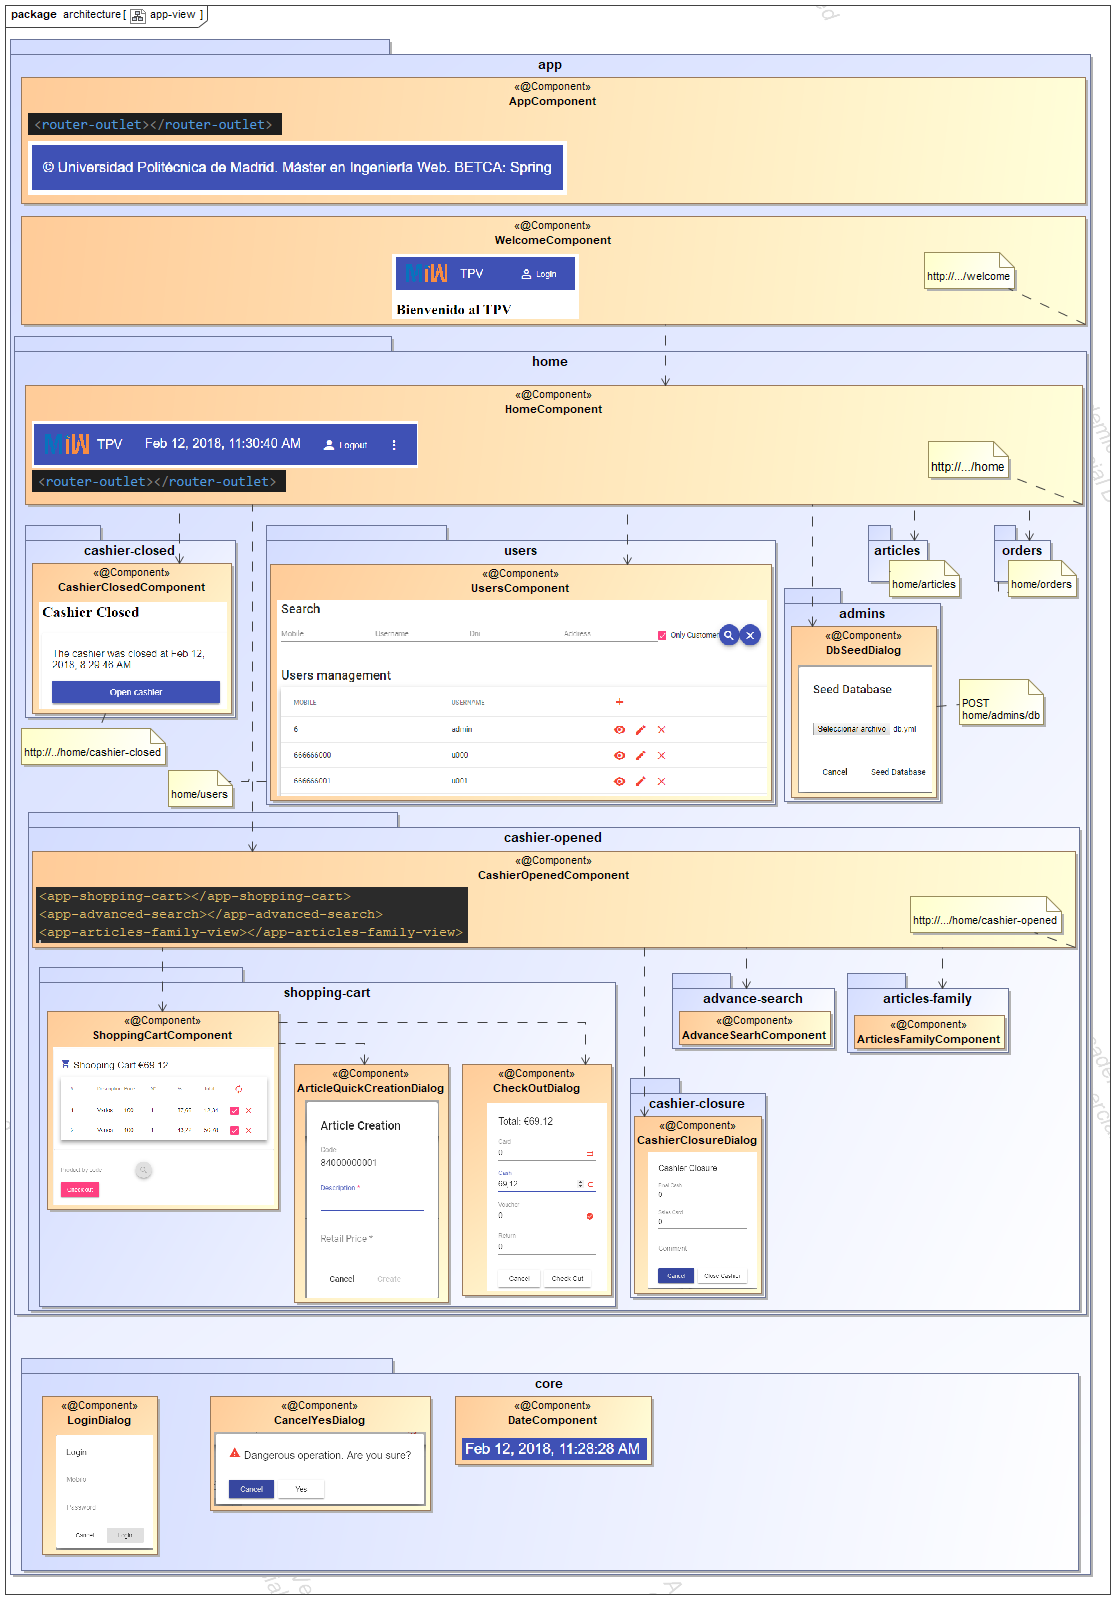
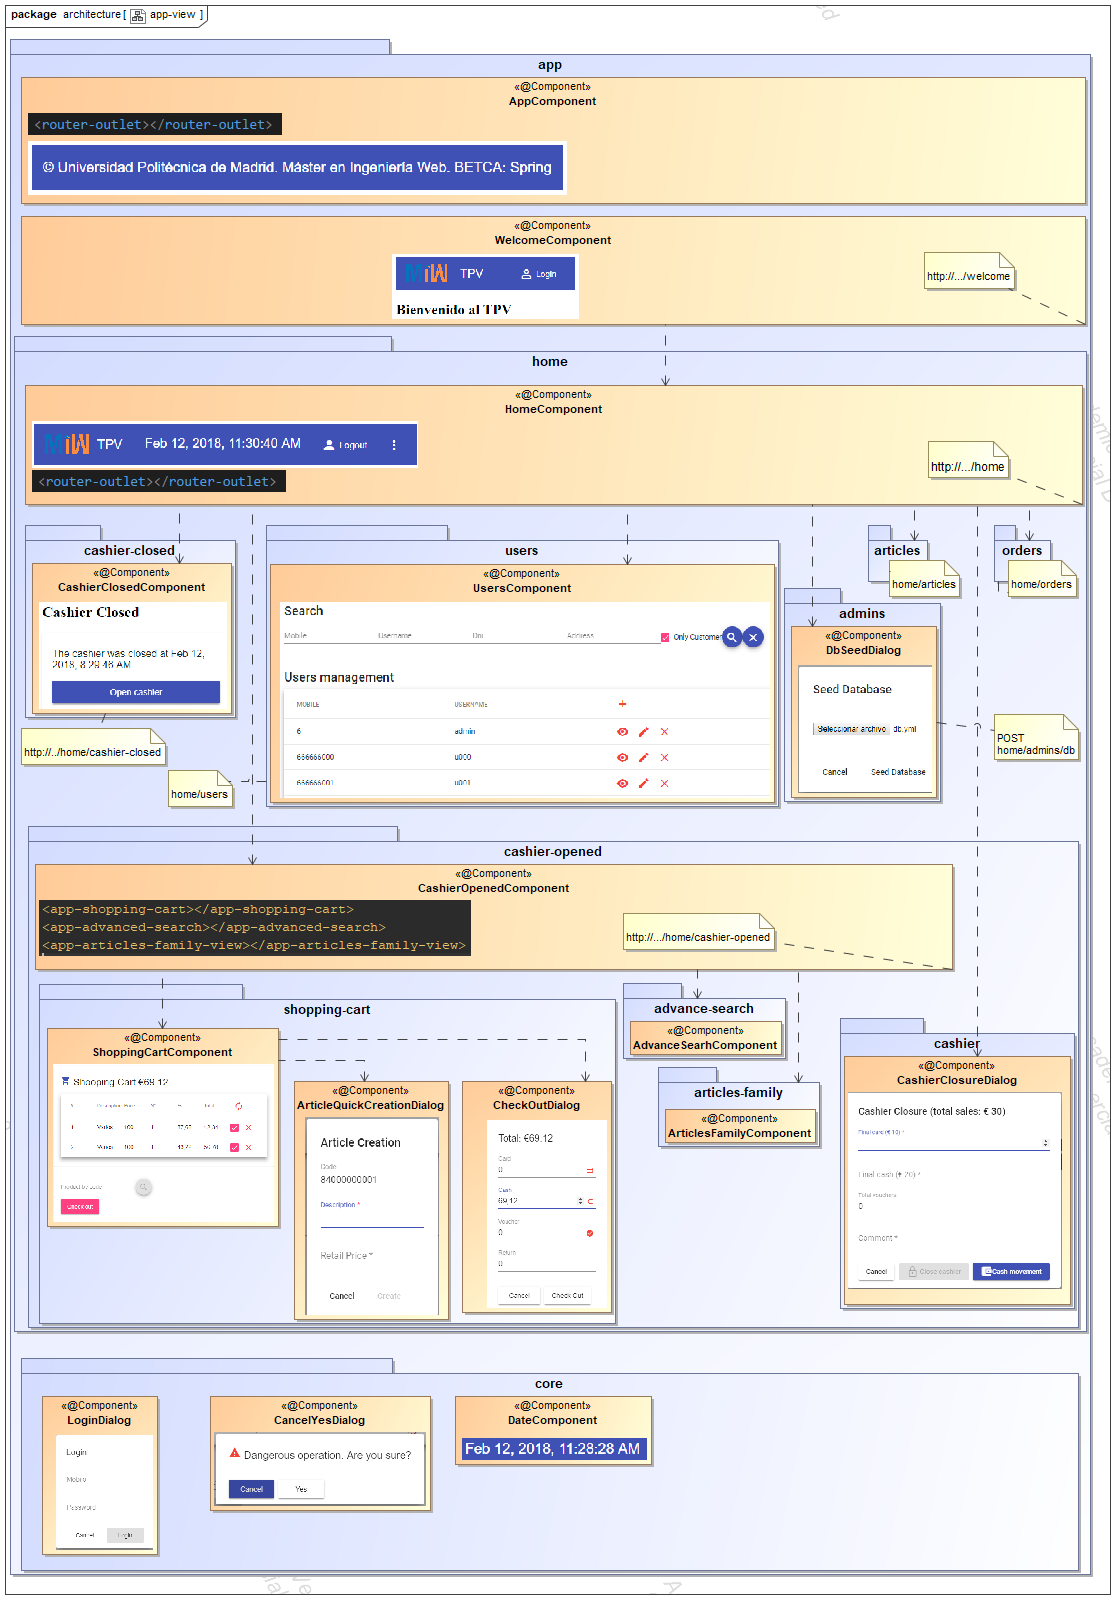
refactoring cashier & docs

diff --git a/src/app/app-routing.module.ts b/src/app/app-routing.module.ts
@@ -11,7 +11,7 @@ import {UsersComponent} from './home/users/users.component';
 import {WelcomeComponent} from './welcome.component';
 
 import {ArticleQuickCreationDialogComponent} from './home/cashier-opened/shopping-cart/article-quick-creation-dialog.component';
-import {CashierClosureDialogComponent} from './home/cashier-opened/cashier-closure/cashier-closure-dialog.component';
+import {CashierClosureDialogComponent} from './home/cashier-opened/cashier/cashier-closure-dialog.component';
 import {CheckOutDialogComponent} from './home/cashier-opened/shopping-cart/check-out-dialog.component';
 import {DbSeedDialogComponent} from './home/admins/db-seed-dialog.component';
 

diff --git a/src/app/app.module.ts b/src/app/app.module.ts
@@ -11,7 +11,7 @@ import {CoreModule} from './core/core.module';
 import {CashierService} from './home/shared/cashier.service';
 import {AdminsService} from './home/admins/admins.service';
 import {ArticleService} from './home/shared/article.service';
-import {CashierClosureService} from './home/cashier-opened/cashier-closure/cashier-closure.service';
+import {CashierClosureService} from './home/cashier-opened/cashier/cashier-closure.service';
 import {ShoppingCartService} from './home/cashier-opened/shopping-cart/shopping-cart.service';
 import {UserService} from './home/users/user.service';
 

diff --git a/src/app/home/home.component.ts b/src/app/home/home.component.ts
@@ -11,7 +11,7 @@ import {UserService} from './users/user.service';
 import {DbSeedDialogComponent} from './admins/db-seed-dialog.component';
 import {CashierClosedComponent} from './cashier-closed/cashier-closed.component';
 import {CashierOpenedComponent} from './cashier-opened/cashier-opened.component';
-import {CashierClosureDialogComponent} from './cashier-opened/cashier-closure/cashier-closure-dialog.component';
+import {CashierClosureDialogComponent} from './cashier-opened/cashier/cashier-closure-dialog.component';
 import {UsersComponent} from './users/users.component';
 
 @Component({

diff --git a/README.md b/README.md
@@ -226,13 +226,13 @@ Como exceptión se permite un proceso muy simple, por ejemplo deshabilitar un bo
 import {Component} from '@angular/core';
 import {MatDialog, MatDialogRef} from '@angular/material';
 
-import {CashierClosureService} from './cashier-closure.service';
+import {CashierClosureService} from cashier;
 import {CashierState} from './cashier-state.model';
-import {CashierClosure} from './cashier-closure.model';
+import {CashierClosure} from cashier;
 
 @Component({
-  templateUrl: 'cashier-closure-dialog.component.html',
-  styleUrls: ['cashier-closure-dialog.component.css']
+  templateUrl: cashier,
+  styleUrls: [cashier]
 })
 export class CashierClosureDialogComponent {
   cashierClosureFinal: CashierClosure = {finalCash: undefined, finalCard: undefined, comment: undefined};
@@ -277,7 +277,7 @@ import {Observable} from 'rxjs';
 import {HttpService} from '../../../core/http.service';
 import {ApiEndpoint} from '../../shared/api-endpoint.model';
 import {CashierState} from './cashier-state.model';
-import {CashierClosure} from './cashier-closure.model';
+import {CashierClosure} from cashier;
 
 @Injectable()
 export class CashierClosureService {
